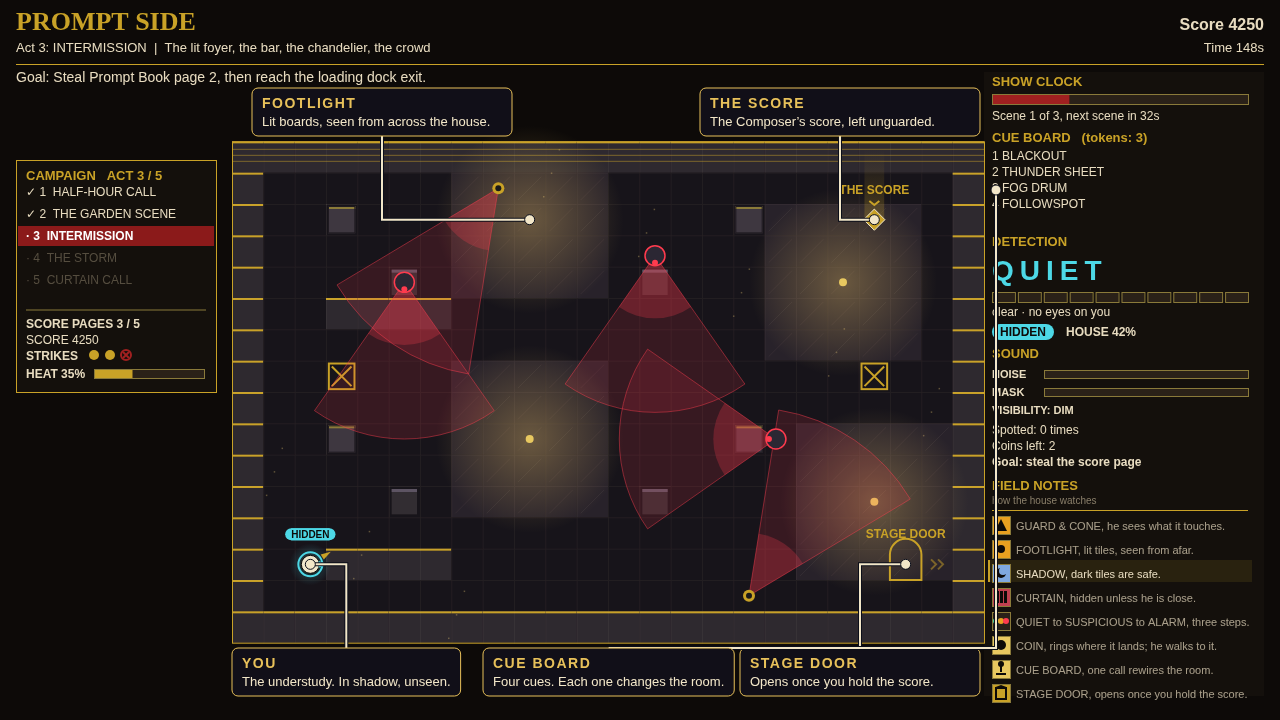
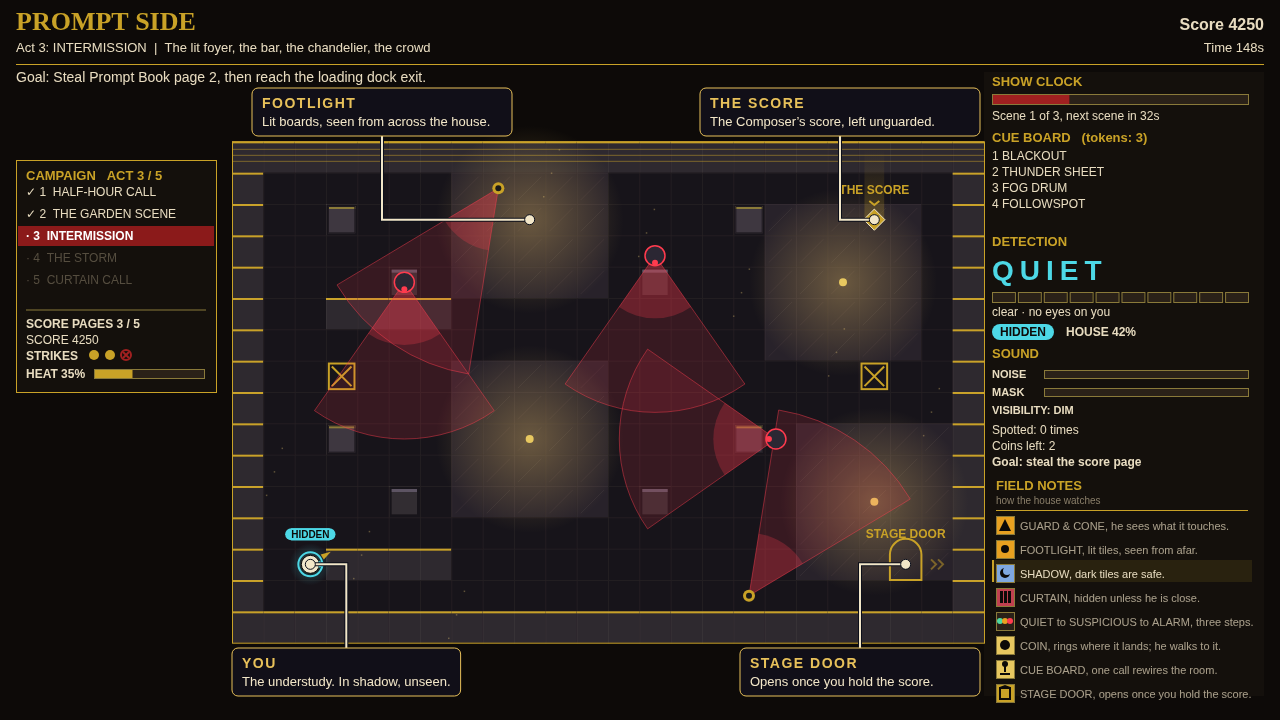
v4 fix: remove CUE BOARD leader over HUD, reroute GUARD leader, unclip FIELD NOTES

Changed region(s): [[0.75, 0.6722, 0.9688, 0.9778], [0.375, 0.8861, 0.5625, 0.9778], [0.5625, 0.8861, 0.5938, 0.9167]]

diff --git a/game/src/main.js b/game/src/main.js
@@ -285,7 +285,6 @@ export function applyShowcase(game, name) {
       { anchor: spawn, plate: [232, 648, 220], label: 'YOU', sentence: 'The understudy. In shadow, unseen.' },
       { anchor: obj, plate: [700, 88, 280], label: 'THE SCORE', sentence: 'The Composer\u2019s score, left unguarded.' },
       { anchor: exit, plate: [740, 648, 240], label: 'STAGE DOOR', sentence: 'Opens once you hold the score.' },
-      { anchor: { x: 996, y: 190 }, screen: true, plate: [483, 648, 240], label: 'CUE BOARD', sentence: 'Four cues. Each one changes the room.', elbow: 'v' },
     ];
     setScreen(game, 'playing');
   } else if (name === 'act1') {
@@ -335,7 +334,6 @@ export function applyShowcase(game, name) {
     game.callouts = [
       { anchor: coin, plate: [252, 88, 240], label: 'COIN', sentence: 'Pulls a guard off their mark.' },
       { anchor: { x: g.x, y: g.y }, plate: [745, 648, 260], label: 'GUARD', sentence: 'He heard it. Off to look.' },
-      { anchor: { x: 996, y: 190 }, screen: true, plate: [483, 648, 240], label: 'CUE BOARD', sentence: 'Fog Drum is running. Cones shrink.', elbow: 'v' },
     ];
     setScreen(game, 'playing');
   } else if (name === 'spotted') {

diff --git a/game/src/render.js b/game/src/render.js
@@ -646,7 +646,8 @@ function drawRightPanel(game, ctx) {
   y += 56;
   // FIELD NOTES replaces the color key and the controls. It teaches
   // the house rules and narrates the current situation live.
-  drawFieldNotes(game, ctx, x, y, w);
+  // Shifted 4px right so the icon chips clear the panel edge.
+  drawFieldNotes(game, ctx, x + 4, y, w - 4);
 }
 
 function drawWorld(game, ctx, view) {
